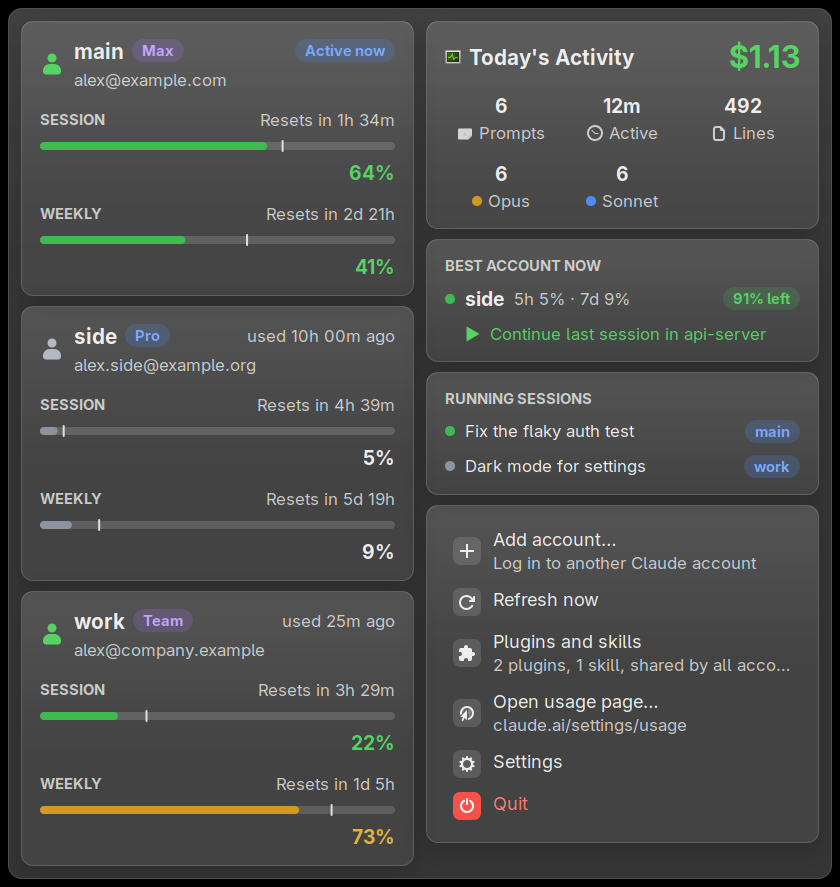
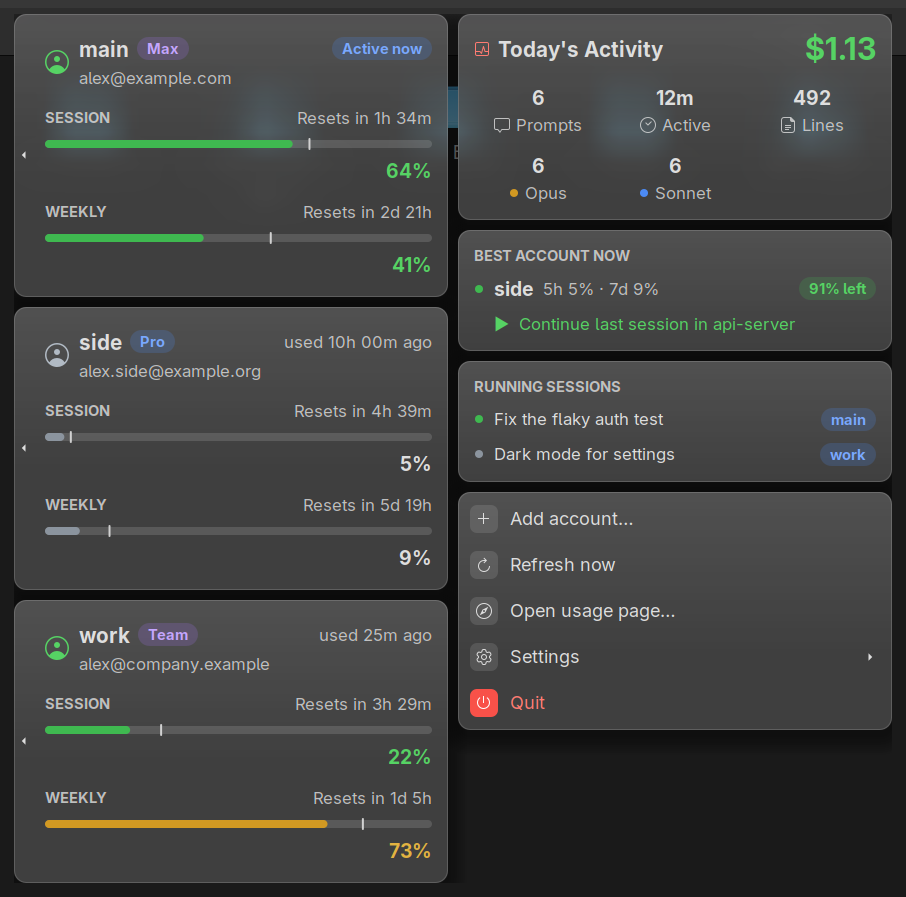
docs: screenshots of the frosted dashboard and its menus

Changed region(s): [[0.0, 0.0, 1.0, 1.0]]

diff --git a/README.md b/README.md
@@ -48,10 +48,10 @@ The ring shows the 5-hour usage of the account you used last: green, then amber 
 Point at or click an account and its menu opens beside the dashboard:
 
 - continue the last session or start one in any folder
-- resume any recent session with that account (pin the ones you use most)
+- Recent Projects opens further out: resume any recent session with that account (pin the ones you use most)
 - log the account in again or remove it
 
-<p align="center"><img src="docs/dashboard-account.png" width="760" alt="An account's menu beside the dashboard: continue the last session, start one in a folder, recent projects and sessions with pins"></p>
+<p align="center"><img src="docs/dashboard-account.png" width="900" alt="An account's menu beside the dashboard: continue the last session, start one in a folder, recent projects and sessions with pins"></p>
 
 Under the cards on the right: add an account, refresh, open the usage page, and the settings:
 - what the panel text shows
@@ -59,7 +59,7 @@ Under the cards on the right: add an account, refresh, open the usage page, and 
 - hiding email addresses
 - starting at login
 
-Plugins and skills lists what is installed. Everything there is shared by every account.
+Plugins and Skills, in the same menu, lists what is installed. Everything there is shared by every account.
 
 The icon works with Cinnamon, MATE and Xfce through XApp; KDE, GNOME with the AppIndicator extension and others through an AppIndicator; and any other X11 panel through the classic tray. On Wayland it runs through XWayland.
 
